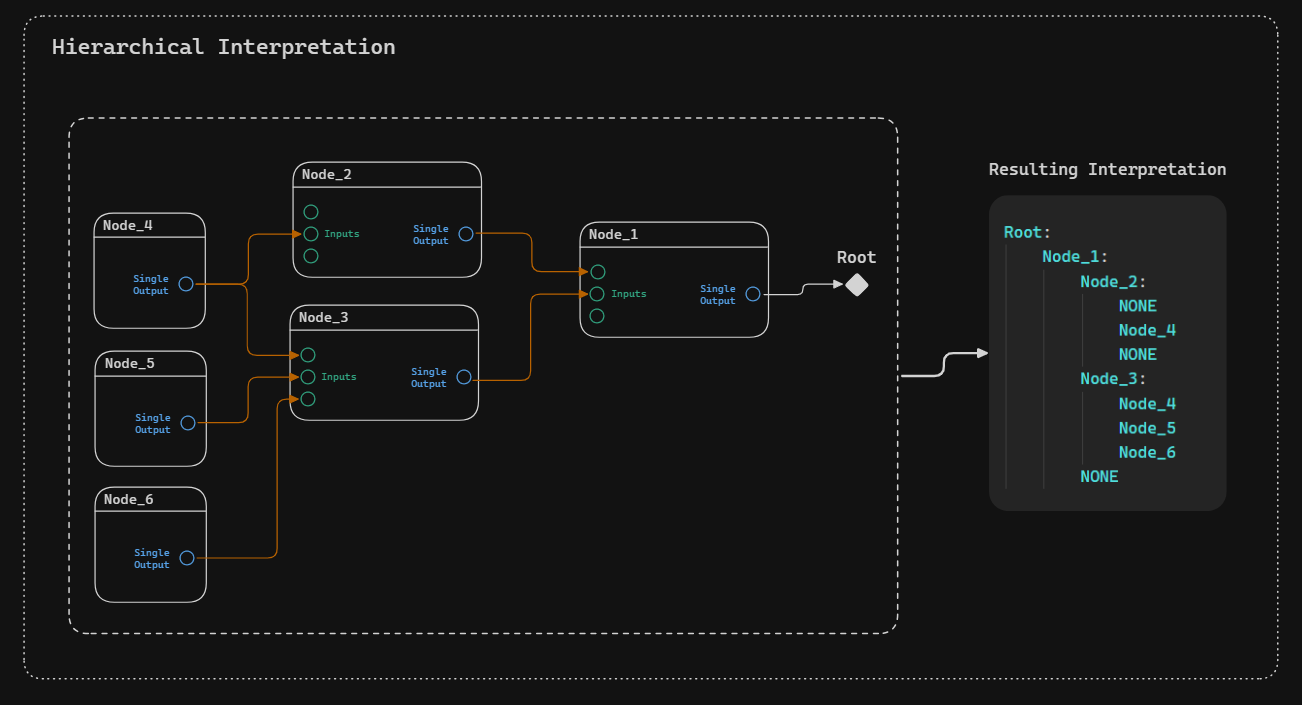
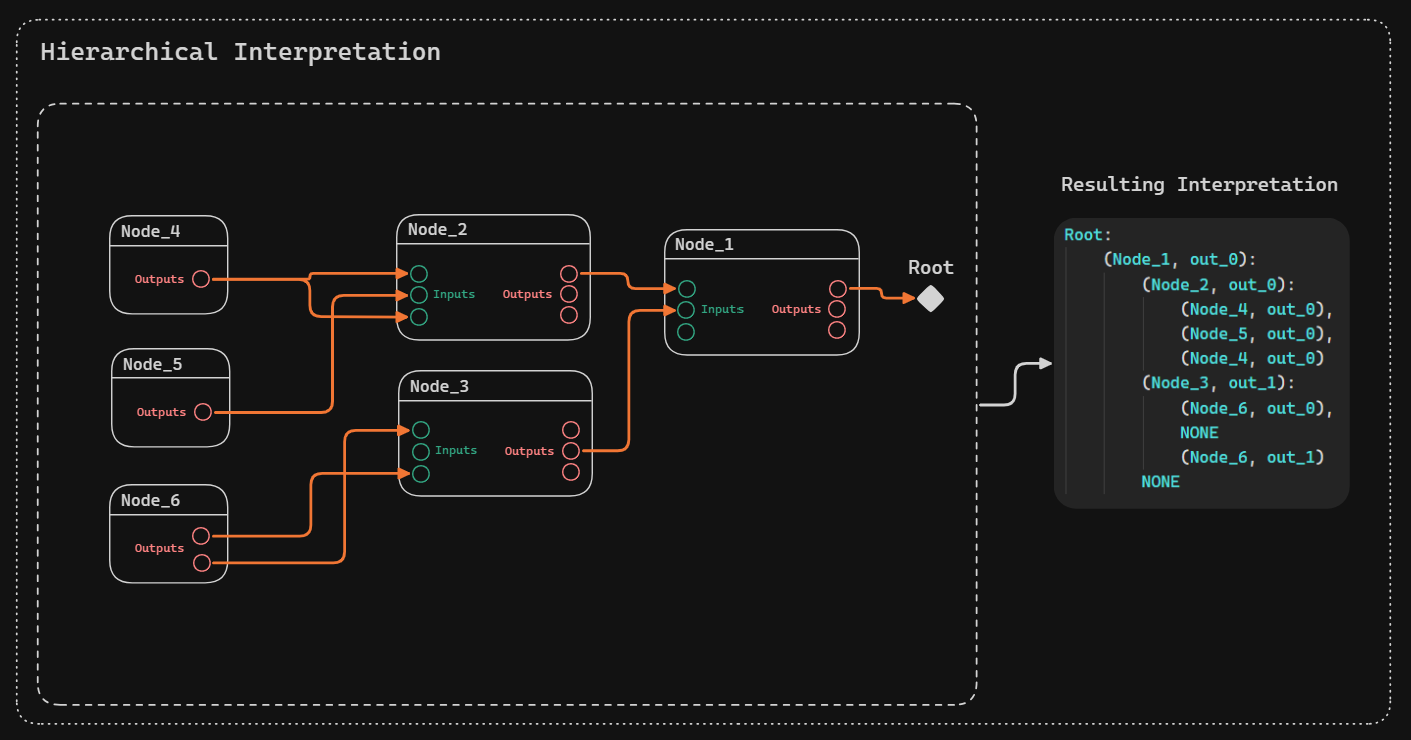
[DOCS] Hierararchical interpretation expansion

diff --git a/Documentation/Interpretations/Hierarchical/Hierarchical Interpretation.md b/Documentation/Interpretations/Hierarchical/Hierarchical Interpretation.md
@@ -7,10 +7,23 @@ Hierarchical node interpretation is primarily designed for systems that directly
 
 ![](Images/NodeTreePrincipal.png)
 
-*NOTE: Missing inputs are marked as NONE (or `nullptr` on C++ side)*
+*Example resulting node hierarchy*
+```c++
+Root:
+	(Node_1, out_0):
+		(Node_2, out_0):
+			(Node_4, out_0),
+			(Node_5, out_0),
+			(Node_4, out_0)
+		(Node_3, out_1):
+			(Node_6, out_0),
+			NONE
+			(Node_6, out_1)
+		NONE
+```
+*NOTE: Missing inputs are marked as NONE*
 
-Hierarchical interpretation requires one of the two following node formats:
+Hierarchical interpretation requires the following node format:
 <p align="center">
   <img src="../../Images/TreeNode.png"  width="50%">
 </p>
-Each node can have as many *Input* pins, but only one *Output* pin.
